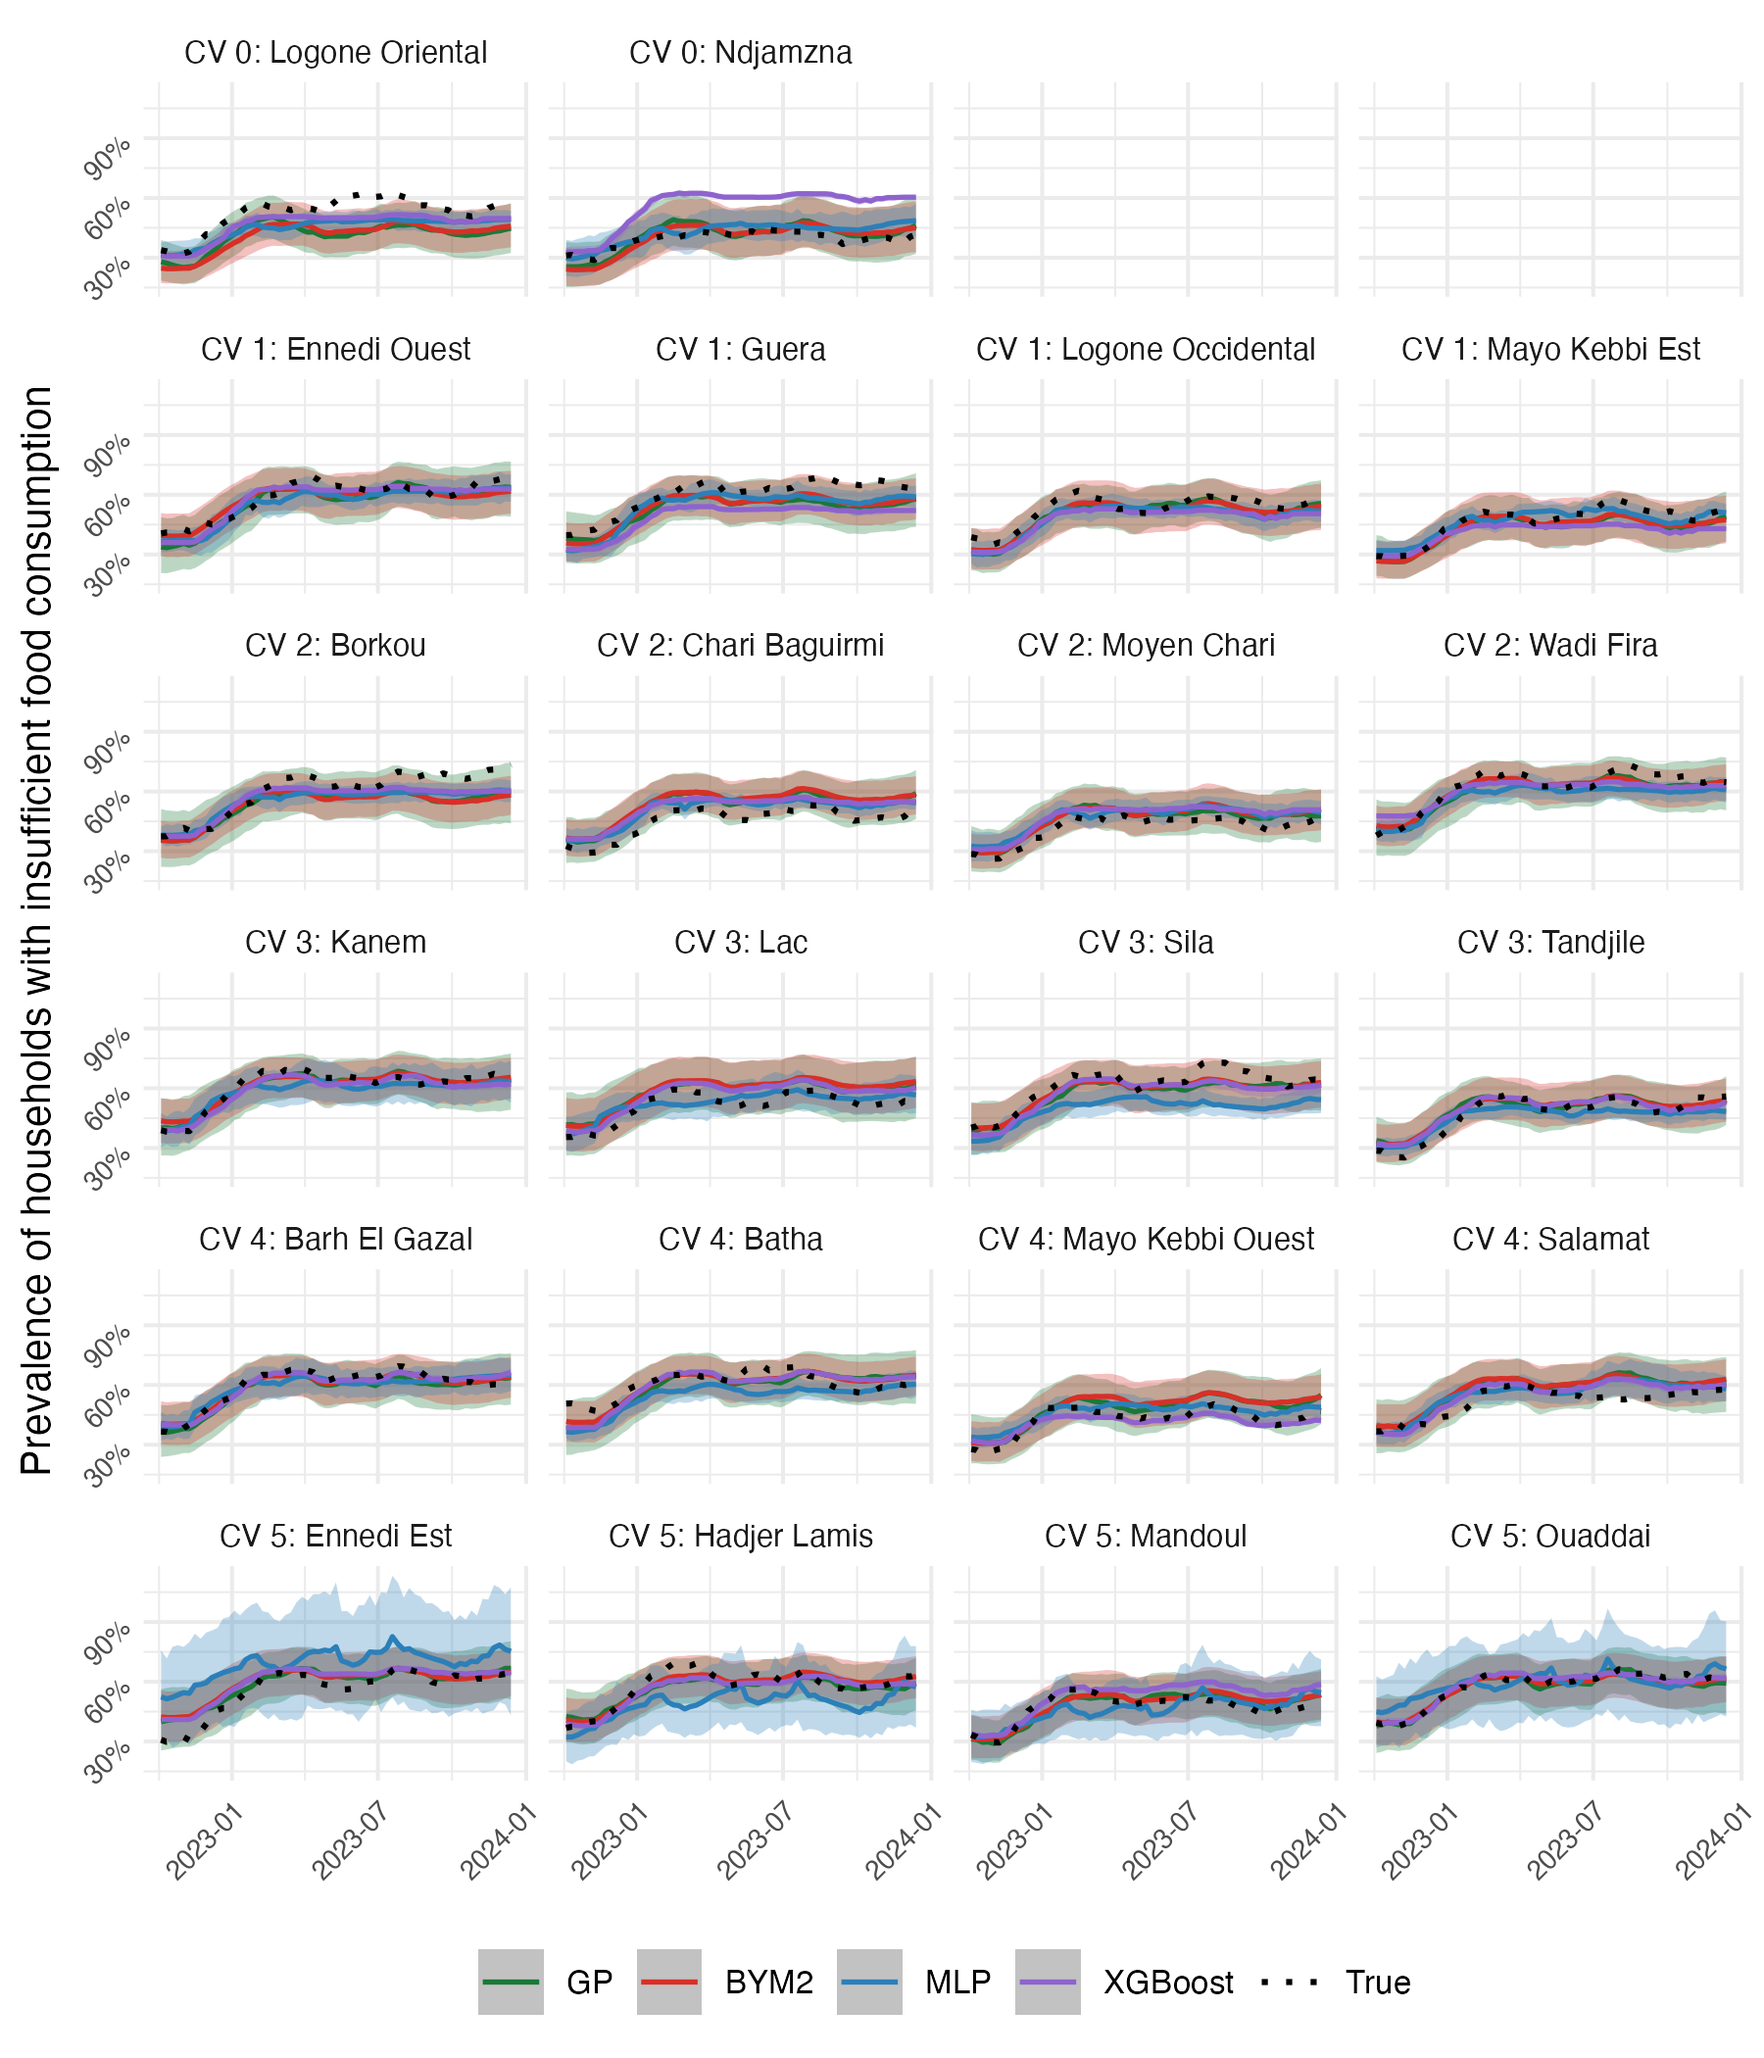
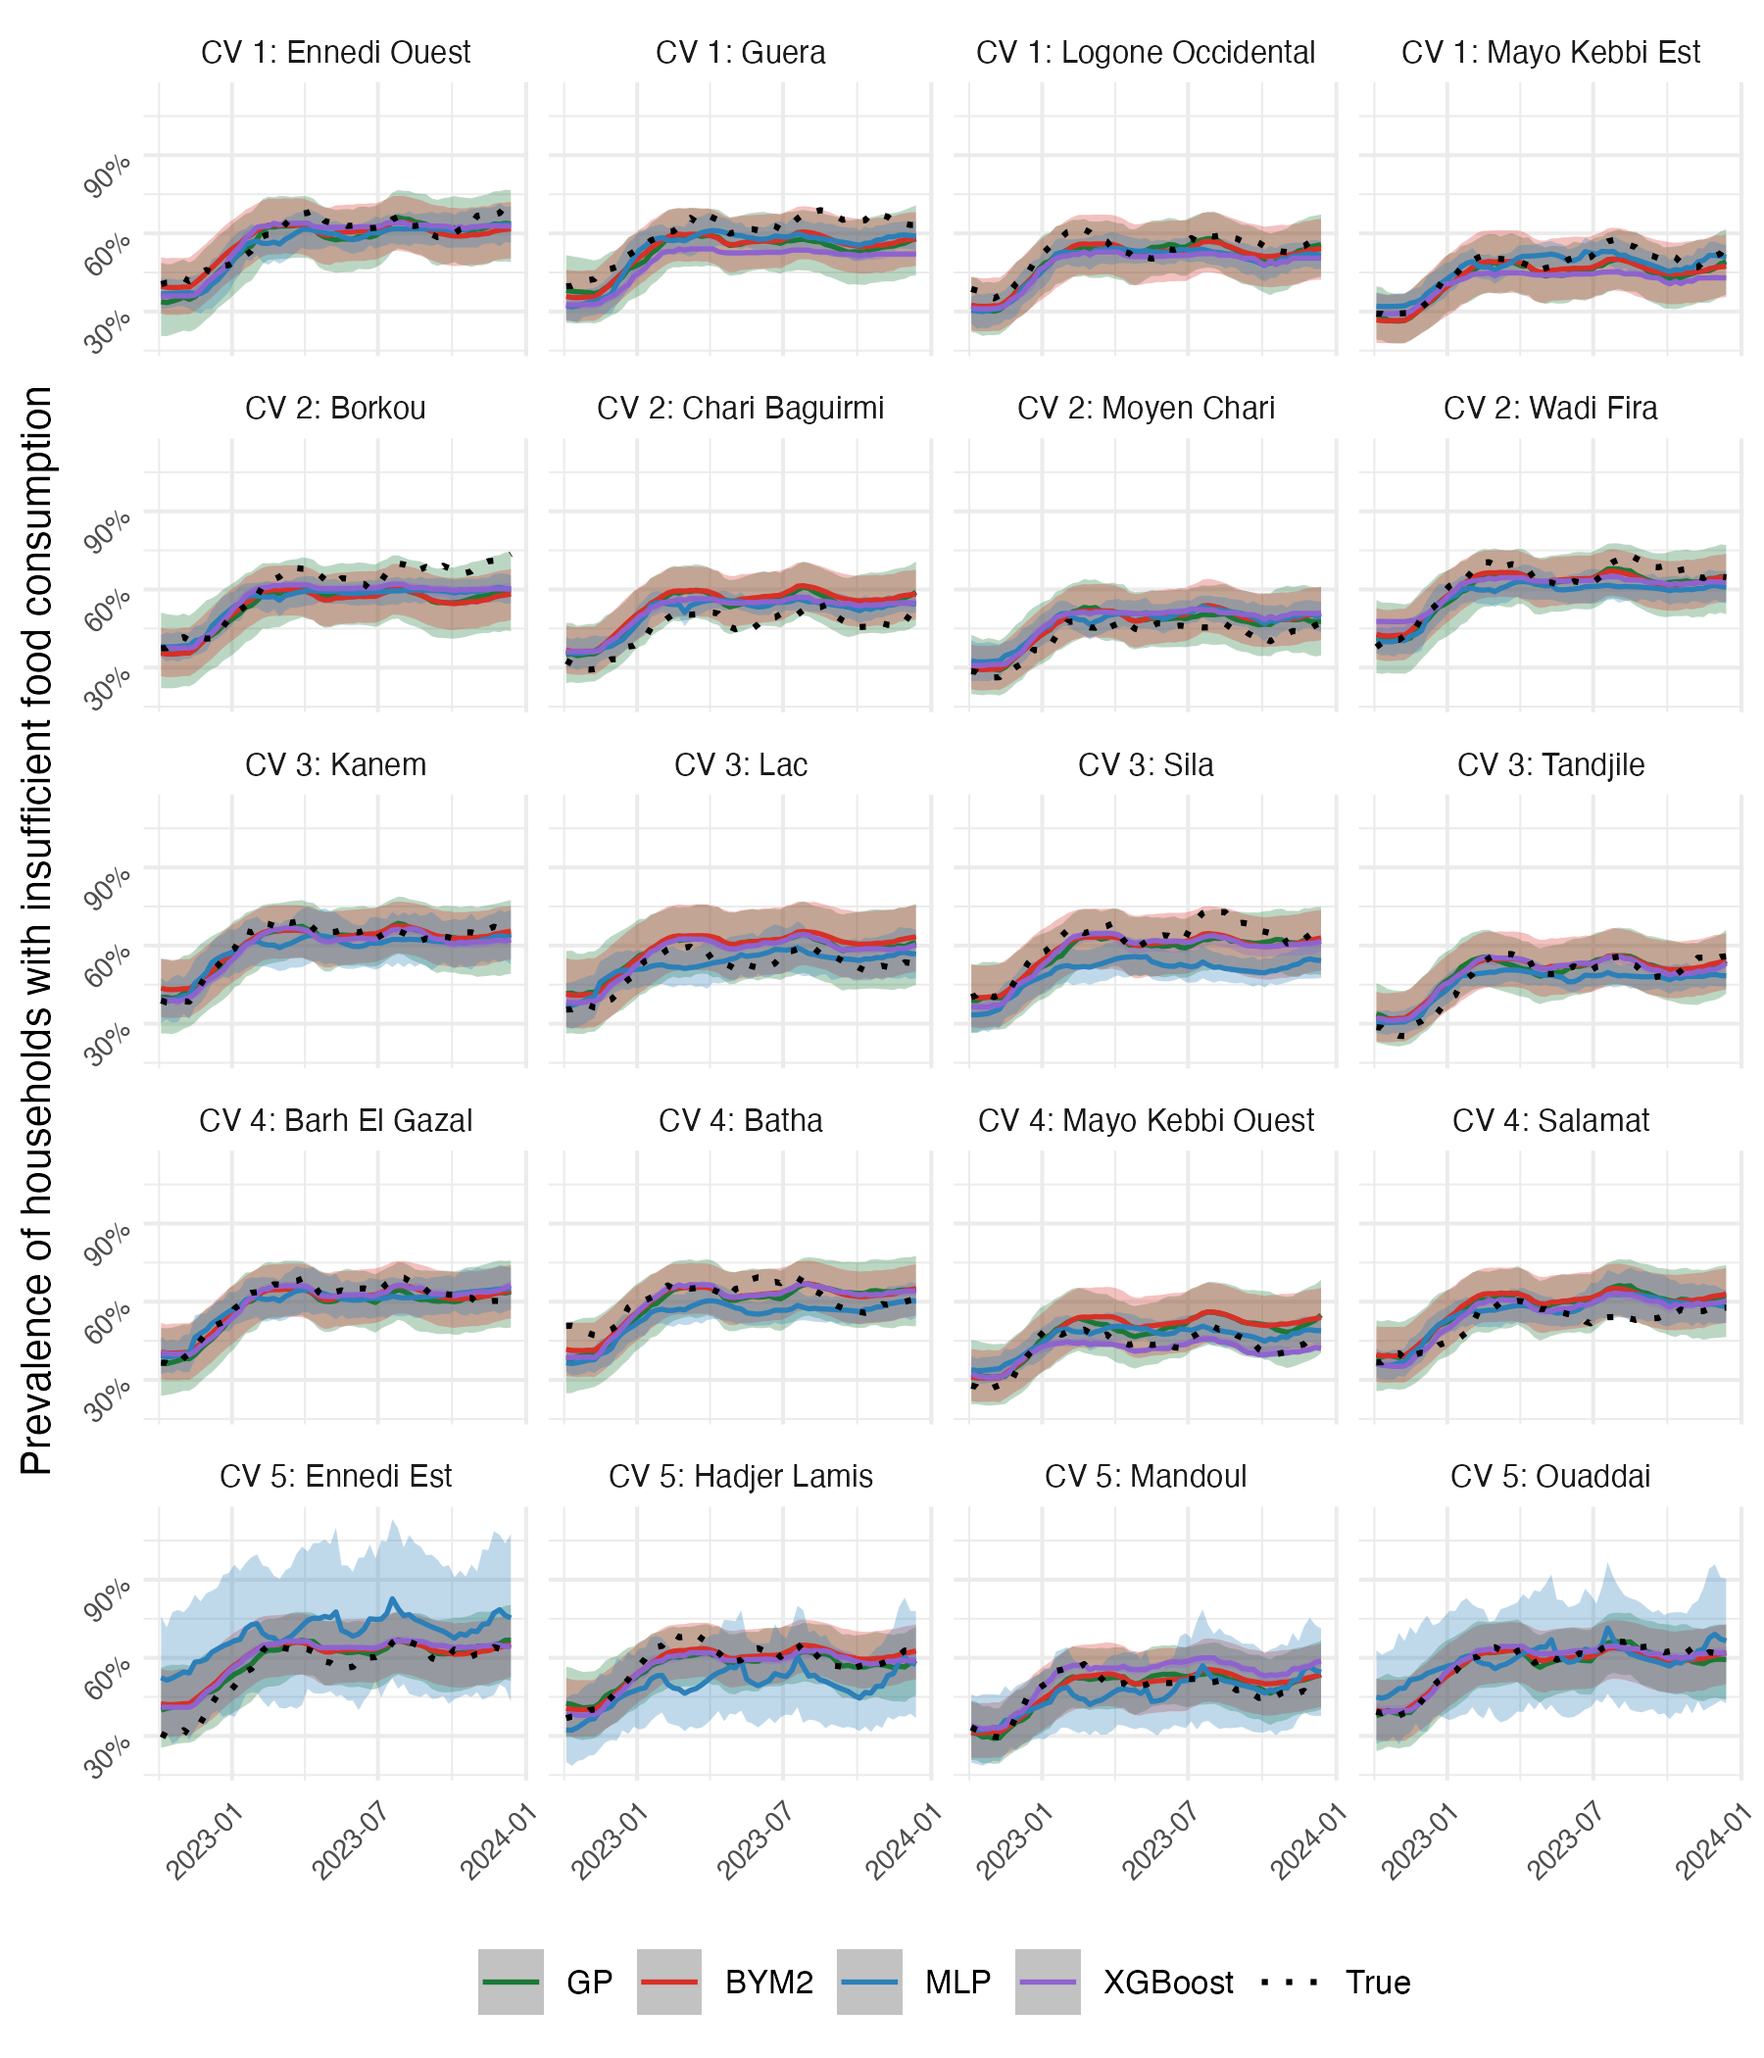
remove fold0 from prediction plots

diff --git a/output/tables/nga_prediction_metrics.tex b/output/tables/nga_prediction_metrics.tex
@@ -5,11 +5,11 @@
 \toprule
 Model & RMSE & MAE & Coverage 95 & Length IC 95 & CRPS & Interval Score 95 \\
 \midrule
-BYM2 & 0.059 & 0.048 & 0.974 & 0.270 & 0.034 & 0.282 \\
-GP No Features & 0.080 & 0.069 & 1.000 & 0.476 & 0.047 & 0.476 \\
-GP With Features & 0.051 & 0.042 & 0.994 & 0.339 & 0.032 & 0.341 \\
-MLP & 0.064 & 0.051 & 0.757 & 0.169 & 0.035 & 0.453 \\
-XG-Boost & 0.064 & 0.049 & 0.279 & 0.039 & 0.043 & 1.335 \\
+BYM2 & 0.054 & 0.048 & 0.974 & 0.270 & 0.034 & 0.282 \\
+GP No Features & 0.074 & 0.069 & 1.000 & 0.476 & 0.047 & 0.476 \\
+GP With Features & 0.047 & 0.042 & 0.994 & 0.339 & 0.032 & 0.341 \\
+MLP & 0.059 & 0.051 & 0.757 & 0.169 & 0.035 & 0.453 \\
+XG-Boost & 0.057 & 0.049 & 0.279 & 0.039 & 0.043 & 1.335 \\
 \bottomrule
 \end{tabular}
 \end{table}

diff --git a/output/tables/tcd_prediction_metrics.tex b/output/tables/tcd_prediction_metrics.tex
@@ -5,11 +5,11 @@
 \toprule
 Model & RMSE & MAE & Coverage 95 & Length IC 95 & CRPS & Interval Score 95 \\
 \midrule
-BYM2 & 0.052 & 0.042 & 0.960 & 0.218 & 0.030 & 0.243 \\
-GP No Features & 0.060 & 0.050 & 0.998 & 0.297 & 0.033 & 0.297 \\
-GP With Features & 0.051 & 0.042 & 0.990 & 0.243 & 0.029 & 0.246 \\
-MLP & 0.069 & 0.055 & 0.705 & 0.176 & 0.040 & 0.542 \\
-XG-Boost & 0.054 & 0.044 & 0.229 & 0.032 & 0.040 & 1.246 \\
+BYM2 & 0.048 & 0.042 & 0.960 & 0.218 & 0.030 & 0.243 \\
+GP No Features & 0.056 & 0.050 & 0.998 & 0.297 & 0.033 & 0.297 \\
+GP With Features & 0.048 & 0.042 & 0.990 & 0.243 & 0.029 & 0.246 \\
+MLP & 0.063 & 0.055 & 0.705 & 0.176 & 0.040 & 0.542 \\
+XG-Boost & 0.050 & 0.044 & 0.229 & 0.032 & 0.040 & 1.246 \\
 \bottomrule
 \end{tabular}
 \end{table}
